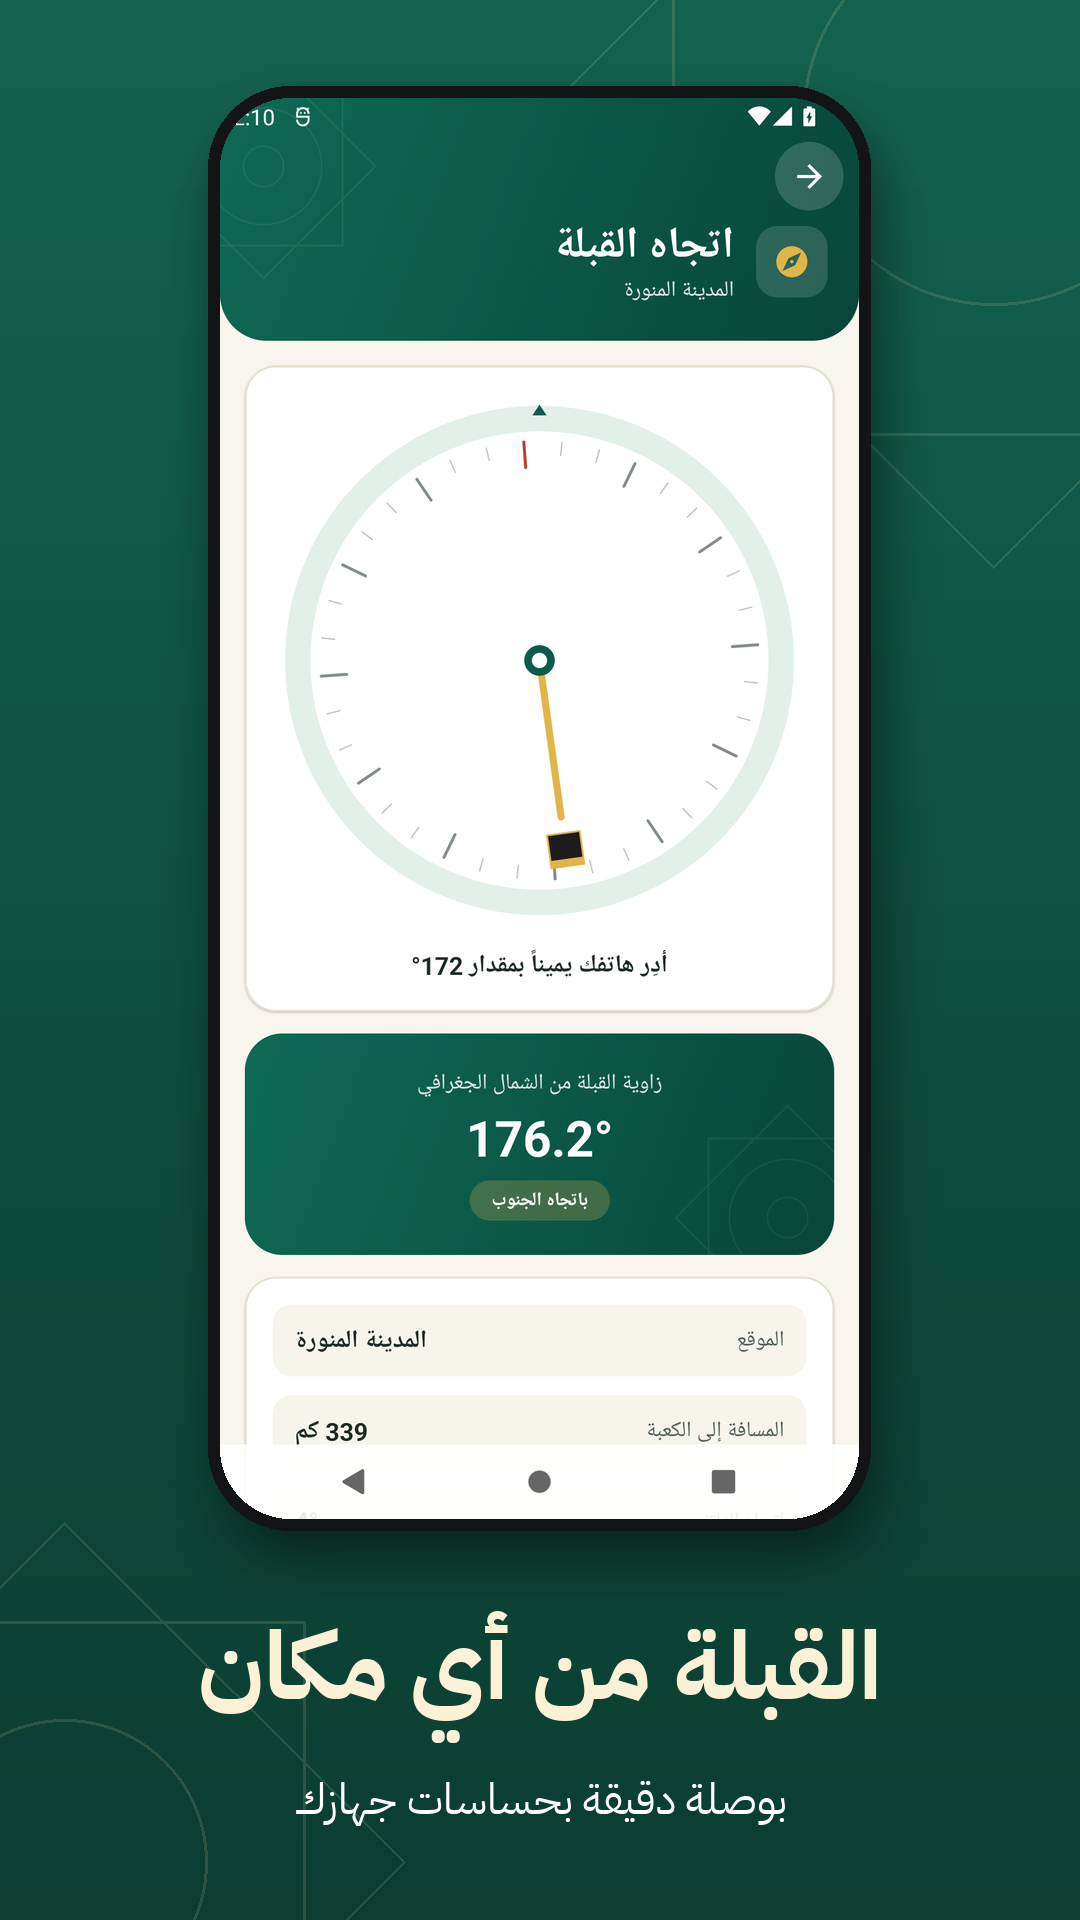
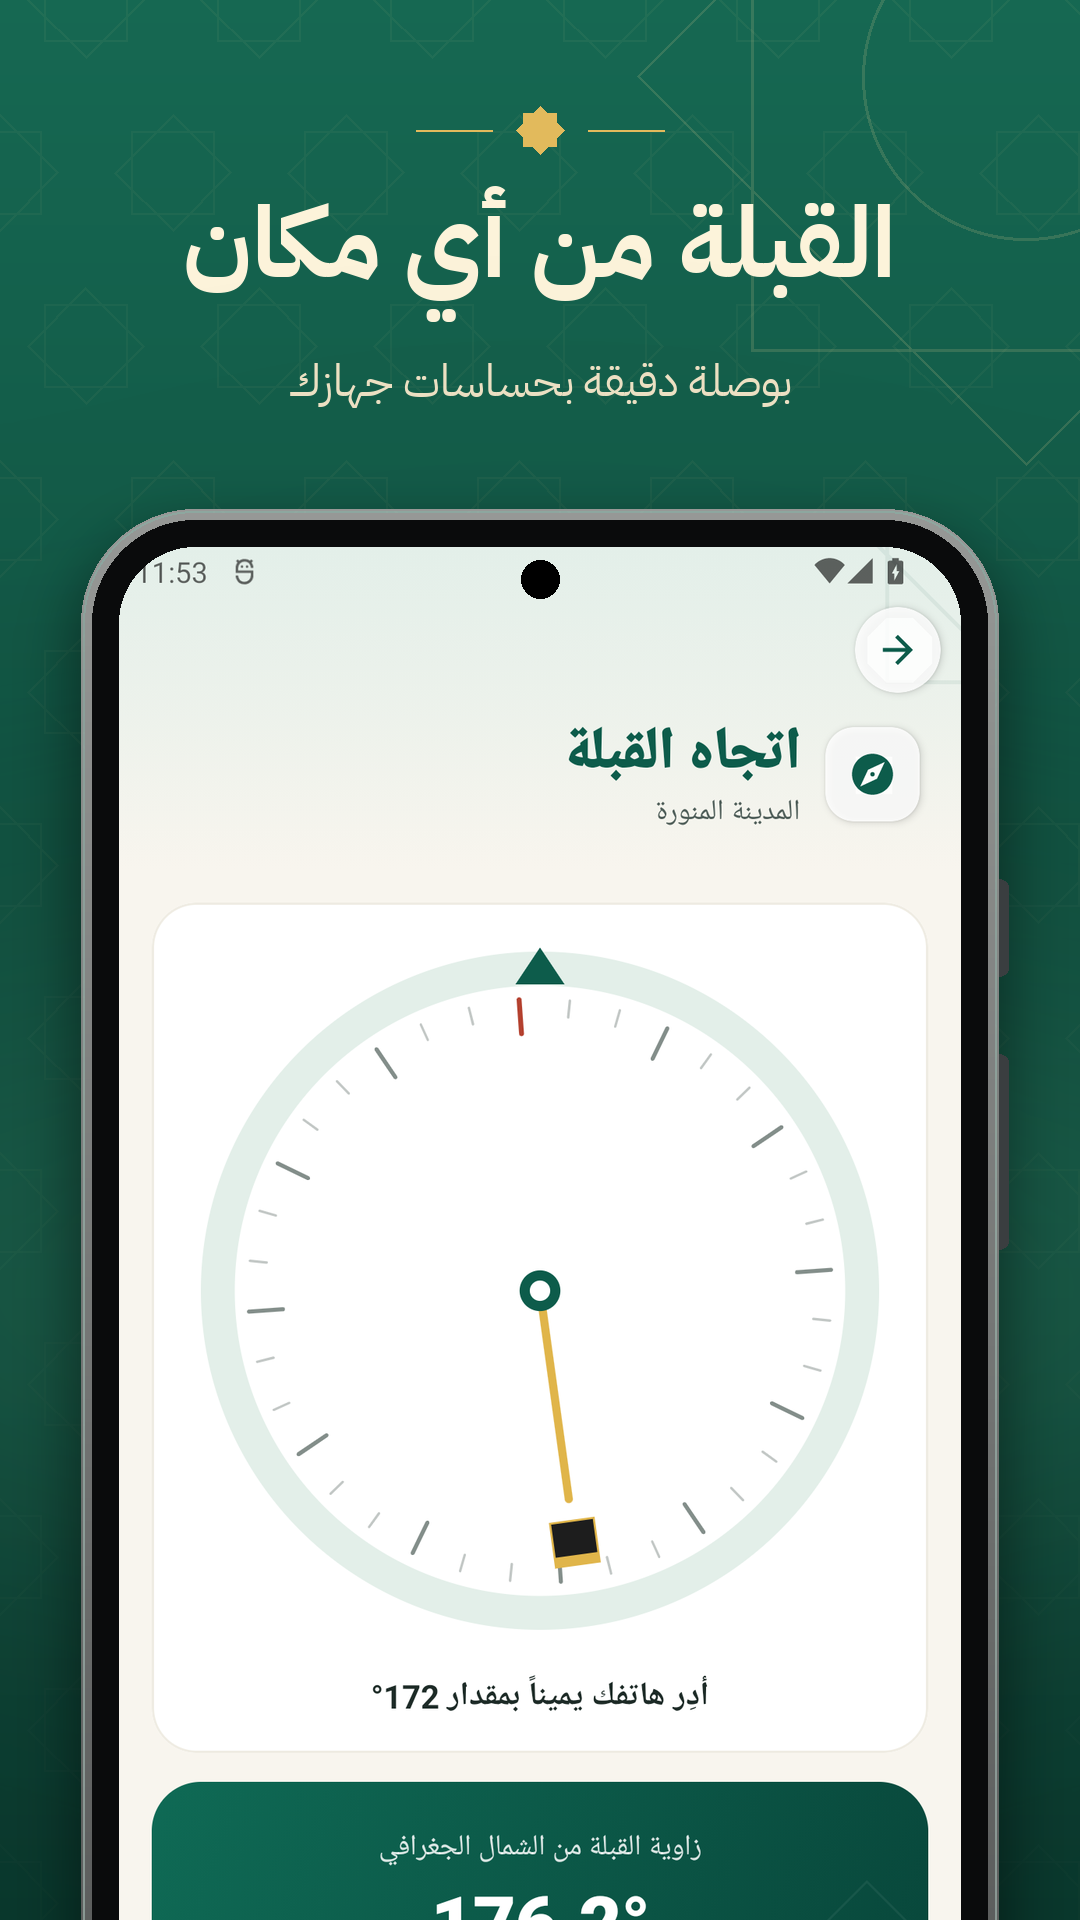
Google Play screenshots: the new Android look in the new frame
The eight Play phone screenshots per language (Arabic, English) now show
the restyled Android screens, framed in the same design as the App Store
set. The frame draws an Android phone for Play (front-camera hole instead
of the Dynamic Island, buttons on the right, slightly squarer corners).

Claude-Session: https://claude.ai/code/session_01XrujgfPwBQRiPmZPYkvcPt

diff --git a/iosApp/fastlane/frame/frame.py b/iosApp/fastlane/frame/frame.py
@@ -143,13 +143,14 @@ def fit_text(text, path, size, max_w, lang):
     return font(path, size)
 
 
-def device(shot: Image.Image, sw: int, ipad: bool) -> Image.Image:
-    """إطار جهاز واقعي: حافة معدنية بتدرج ولمعة، وإطار أسود رفيع، وزوايا مستديرة، وجزيرة iPhone، وأزرار جانبية"""
+def device(shot: Image.Image, sw: int, ipad: bool, android: bool = False) -> Image.Image:
+    """إطار جهاز واقعي: حافة معدنية بتدرج ولمعة، وإطار أسود رفيع، وزوايا مستديرة، وجزيرة iPhone، وأزرار جانبية.
+    android: هاتف Android (صور Google Play): ثقب كاميرا صغير بدل الجزيرة، والأزرار في الجانب الأيمن وحده"""
     shh = round(sw * shot.height / shot.width)
     screen = shot.resize((sw, shh), Image.LANCZOS)
     landscape = shot.width > shot.height
     short = min(sw, shh)
-    radius = round(short * (0.045 if ipad else 0.125))
+    radius = round(short * (0.045 if ipad else (0.09 if android else 0.125)))
     bezel = round(short * (0.035 if ipad else 0.032))      # الإطار الأسود حول الشاشة
     rim = max(6, round(short * (0.011 if ipad else 0.013)))  # الحافة المعدنية
     btn = 0 if ipad else round(rim * 0.9)                   # بروز الأزرار الجانبية
@@ -161,9 +162,14 @@ def device(shot: Image.Image, sw: int, ipad: bool) -> Image.Image:
     # الأزرار الجانبية (iPhone): الصوت والإجراء يساراً، والتشغيل يميناً
     if not ipad and not landscape:
         bc = (58, 62, 64, 255)
-        for y, hgt in ((0.17, 0.035), (0.225, 0.06), (0.30, 0.06)):
-            d.rounded_rectangle((0, fh * y, btn + rim, fh * (y + hgt)), btn, fill=bc)
-        d.rounded_rectangle((fw - btn - rim, fh * 0.25, fw, fh * 0.34), btn, fill=bc)
+        if android:
+            # التشغيل والصوت في الجانب الأيمن (كهواتف Pixel)
+            d.rounded_rectangle((fw - btn - rim, fh * 0.19, fw, fh * 0.24), btn, fill=bc)
+            d.rounded_rectangle((fw - btn - rim, fh * 0.28, fw, fh * 0.38), btn, fill=bc)
+        else:
+            for y, hgt in ((0.17, 0.035), (0.225, 0.06), (0.30, 0.06)):
+                d.rounded_rectangle((0, fh * y, btn + rim, fh * (y + hgt)), btn, fill=bc)
+            d.rounded_rectangle((fw - btn - rim, fh * 0.25, fw, fh * 0.34), btn, fill=bc)
     # الحافة المعدنية: تدرج من فاتح إلى داكن ولمعة رفيعة
     metal = gradient(fw - 2 * btn, fh, (150, 152, 150), (70, 72, 72)).convert("RGBA")
     mmask = Image.new("L", metal.size, 0)
@@ -177,7 +183,12 @@ def device(shot: Image.Image, sw: int, ipad: bool) -> Image.Image:
     ImageDraw.Draw(smask).rounded_rectangle((0, 0, sw - 1, shh - 1), radius, fill=255)
     img.paste(screen, (x0 + rim + bezel, rim + bezel), smask)
     # جزيرة iPhone (تغطي الجزيرة إن ظهرت في اللقطة، فتتطابق الصور كلها)
-    if not ipad and not landscape:
+    if android and not landscape:
+        # ثقب الكاميرا الأمامية في وسط الأعلى
+        r = round(sw * 0.022)
+        cx, cy = x0 + rim + bezel + sw // 2, rim + bezel + round(sw * 0.038)
+        d.ellipse((cx - r, cy - r, cx + r, cy + r), fill=(0, 0, 0, 255))
+    elif not ipad and not landscape:
         iw, ih = round(sw * 0.29), round(sw * 0.085)
         cx, top = x0 + rim + bezel + sw // 2, rim + bezel + round(sw * 0.027)
         d.rounded_rectangle((cx - iw // 2, top, cx + iw // 2, top + ih), ih // 2, fill=(0, 0, 0, 255))
@@ -194,6 +205,8 @@ def compose(raw: Path, out: Path, key: str, lang: str, index: int, size=None):
         # لقطة صغيرة (صور الموقع 540×1137): الصورة بمقاس iPhone 6.9 بوصة، واللقطة بنسبتها داخل الإطار
         W, H = 1320, 2868
     ipad = max(W, H) > 2000 and min(W, H) > 1500
+    # مقاس ثابت = صور Google Play: إطار هاتف Android
+    android = bool(size)
     landscape = W > H
     top, bottom, title_c, sub_c, orn_c, glow_c = PALETTES[index % len(PALETTES)]
     canvas = gradient(W, H, top, bottom).convert("RGBA")
@@ -234,11 +247,11 @@ def compose(raw: Path, out: Path, key: str, lang: str, index: int, size=None):
     gap = round(H * 0.045)
     if landscape:
         avail_h = H - text_bottom - gap - round(H * 0.05)
-        dev = device(shot, 100, ipad)
+        dev = device(shot, 100, ipad, android)
         sw = round(100 * min(avail_h / dev.height, (W * 0.86) / dev.width))
     else:
         sw = round(W * (0.74 if ipad else 0.78))
-    dev = device(shot, sw, ipad)
+    dev = device(shot, sw, ipad, android)
     fx = (W - dev.width) // 2
     fy = text_bottom + gap
     if landscape:
